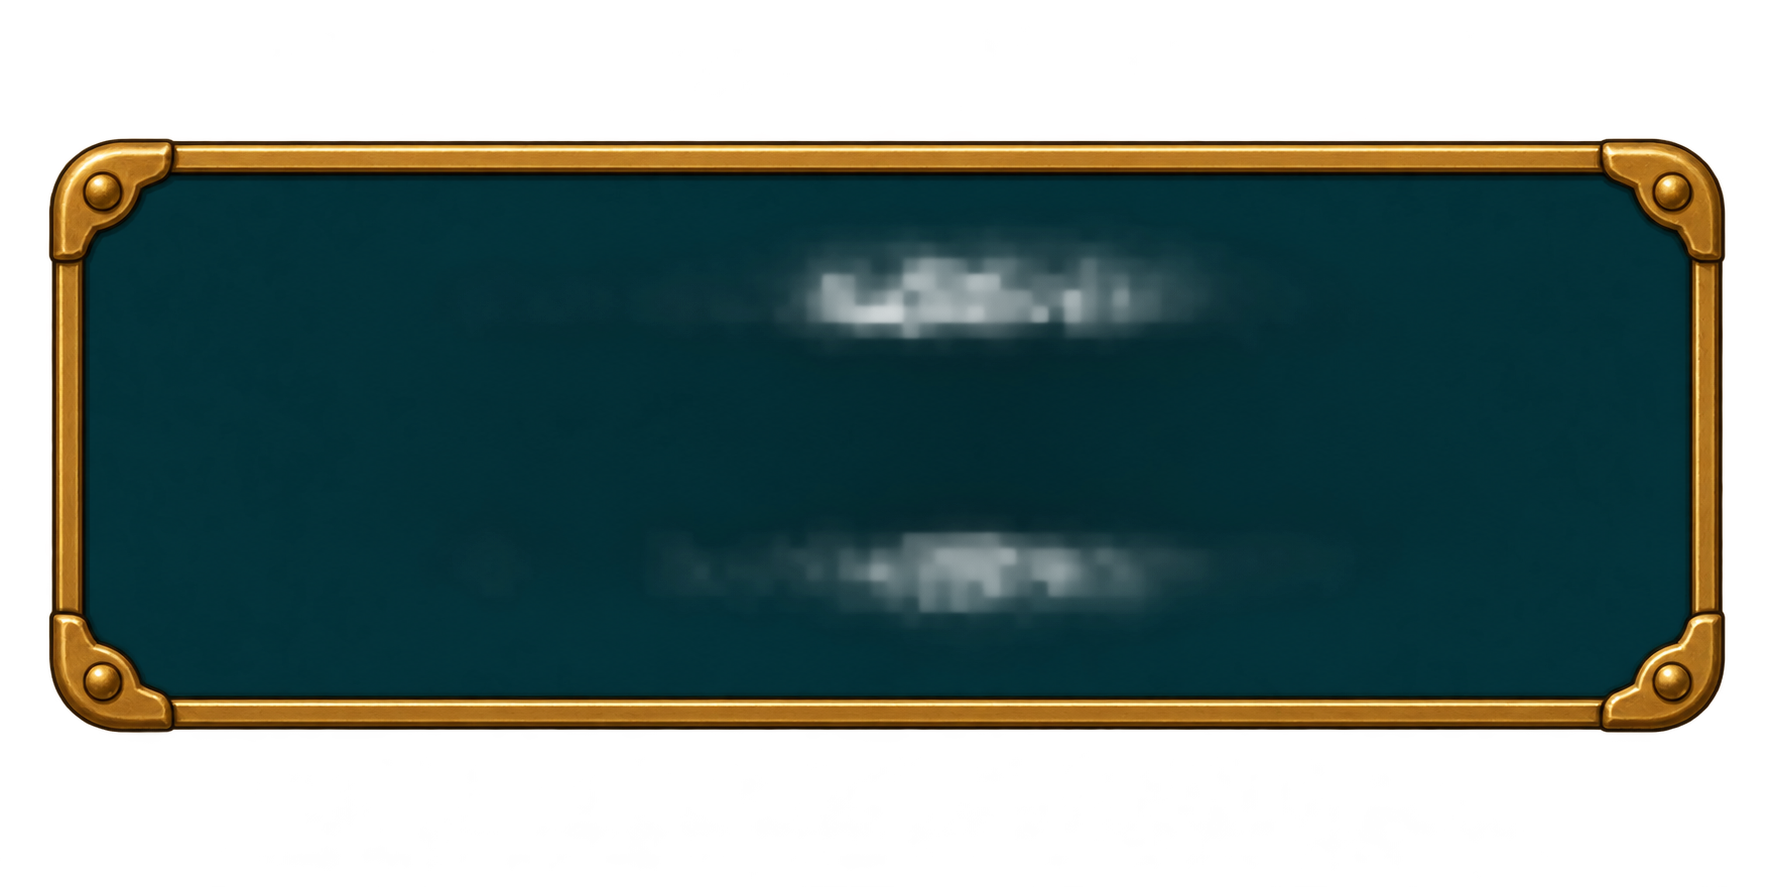
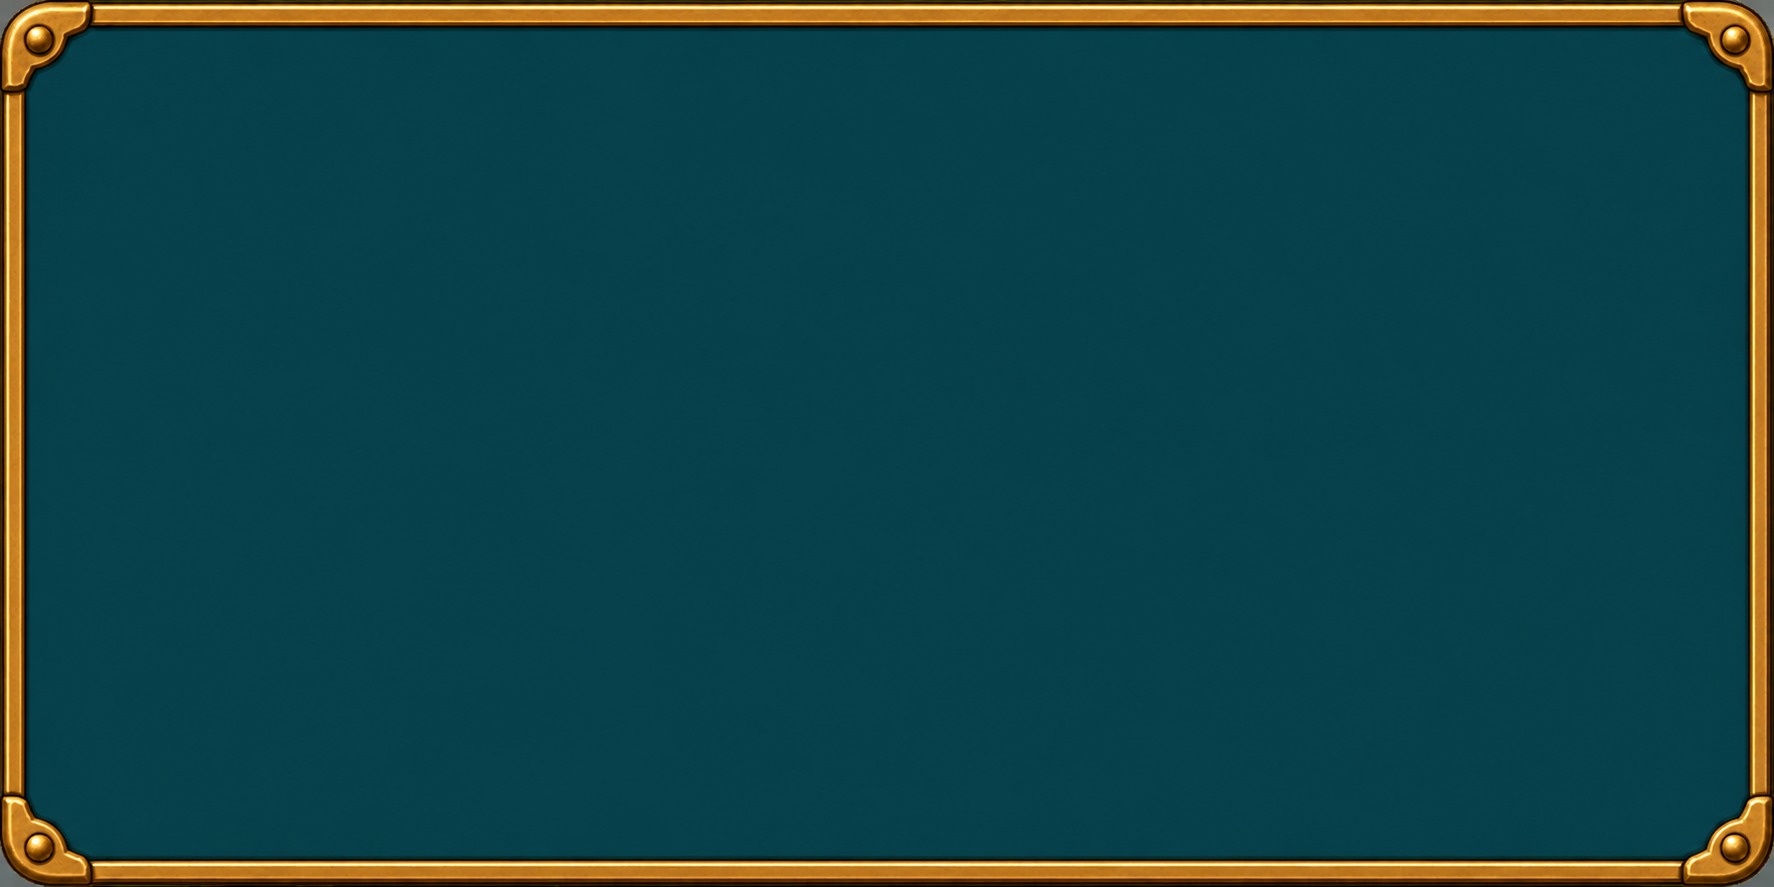
art: correct panel proportions and remove interior transparency

diff --git a/assets/ui/ready/README.md b/assets/ui/ready/README.md
@@ -5,9 +5,9 @@ Taruh file PNG individual dalam folder ini. Daftar mesin: `../asset-manifest.jso
 ## Dua aset tambahan yang sudah dibuat
 
 - `control_circle_pressed.png`: tombol teal dengan bagian tengah cekung dan bingkai kuningan; sumber hasil imagegen **1254×1254**.
-- `panel_9slice.png`: panel teal kosong dengan bingkai kuningan dan sudut membulat; sumber hasil imagegen **1774×887**.
+- `panel_9slice.png` versi 2: panel teal penuh dengan bingkai kuningan memenuhi canvas, tanpa pita transparan lebar. Sumber imagegen **1774×887**, rasio **2:1**; target ekspor **512×256**. Seluruh gambar opak (RGB, alpha 255), termasuk bidang tengah, untuk menghilangkan cacat transparansi versi pertama.
 
-Keduanya PNG RGBA dengan alpha transparan asli pada bagian luar, dibuat sebagai file individual menggunakan built-in imagegen. Target ukuran pada tabel berikut tetap merupakan rencana ekspor; `sourceWidth`/`sourceHeight` di manifest mencatat resolusi sumber aktual yang lebih besar, dengan rasio yang sama. Prompt lengkap ada di `../concepts/prompts-additional-v1.json`. Keduanya belum diunggah atau dipasang pada HUD. Batas `SliceCenter` panel perlu ditentukan dan diperiksa di Studio setelah impor agar sudut tidak terdistorsi.
+Keduanya dibuat sebagai PNG individual menggunakan built-in imagegen. Tombol memakai RGBA transparan di luar lingkaran; panel versi 2 sengaja opak dan memenuhi canvas. Target ukuran pada tabel berikut tetap merupakan rencana ekspor, bukan resolusi file sumber aktual; `sourceWidth`/`sourceHeight` di manifest mencatat dimensi aktual. Prompt awal ada di `../concepts/prompts-additional-v1.json`, prompt koreksi panel ada di `../concepts/prompt-panel-v2.json`. Keduanya belum diunggah atau dipasang pada HUD. Batas `SliceCenter` panel perlu ditentukan dan diperiksa di Studio setelah impor agar sudut tidak terdistorsi.
 
 | Ukuran sumber | Nama file |
 |---|---|
@@ -20,7 +20,7 @@ Keduanya PNG RGBA dengan alpha transparan asli pada bagian luar, dibuat sebagai 
 | 256×256 | `shop_supply.png`, `team_ping.png`, `sound_on.png`, `sound_off.png`, `warning_badge.png` |
 | 512×256 | `panel_9slice.png` |
 
-Satu file berisi satu ikon atau satu state tombol. Latar transparan asli (alpha), tanpa checkerboard yang tergambar, tanpa tulisan/angka/harga. Sisakan sekitar 10% ruang tepi. Untuk ikon lompat/tembak/api, jangan gabungkan ikon dengan dasar lingkaran; dasar tombol disediakan terpisah agar state dan ukuran mudah diubah. Lembar konsep 25 gambar bukan file siap impor.
+Satu file berisi satu ikon atau satu state tombol. Ikon memakai latar transparan asli (alpha), tanpa checkerboard yang tergambar, tanpa tulisan/angka/harga. Sisakan sekitar 5–10% ruang tepi untuk ikon; panel boleh memenuhi canvas tanpa padding besar. Untuk ikon lompat/tembak/api, jangan gabungkan ikon dengan dasar lingkaran; dasar tombol disediakan terpisah agar state dan ukuran mudah diubah. Lembar konsep 25 gambar bukan file siap impor.
 
 Boleh mengirim sebagian dulu. Prioritas pertama: tiga dasar lingkaran, `jump_arrow.png`, `fire_target.png`, dan `emergency_kit.png`. File lain tetap opsional sampai tersedia; UI yang belum memperoleh gambar mempertahankan tampilannya yang berfungsi.
 

diff --git a/assets/ui/concepts/README.md b/assets/ui/concepts/README.md
@@ -15,3 +15,5 @@ Rows, left to right:
 The rectangular 9-slice panel and pressed-state button variants from the asset plan are not included in this first concept sheet. Text, prices, ammo and cooldown remain dynamic game UI.
 
 These two additions are now generated as separate PNG source files in `../ready/control_circle_pressed.png` and `../ready/panel_9slice.png`. Their exact built-in imagegen prompts are recorded in `prompts-additional-v1.json`; actual source dimensions and import status are in `../asset-manifest.json`. They have not been uploaded or installed into the game.
+
+The panel was corrected in v2: the original canvas was 2:1 but its visible frame was close to 3:1 due to large vertical transparent margins, and its center had irregular alpha. `../ready/panel_9slice.png` is now a full-bleed 2:1 panel with a fully opaque center (1774×887 source, not a 512×256 export). The previous source is preserved as `panel-9slice-v1-superseded.png` for provenance only; do not import it. The correction prompt is in `prompt-panel-v2.json`.
